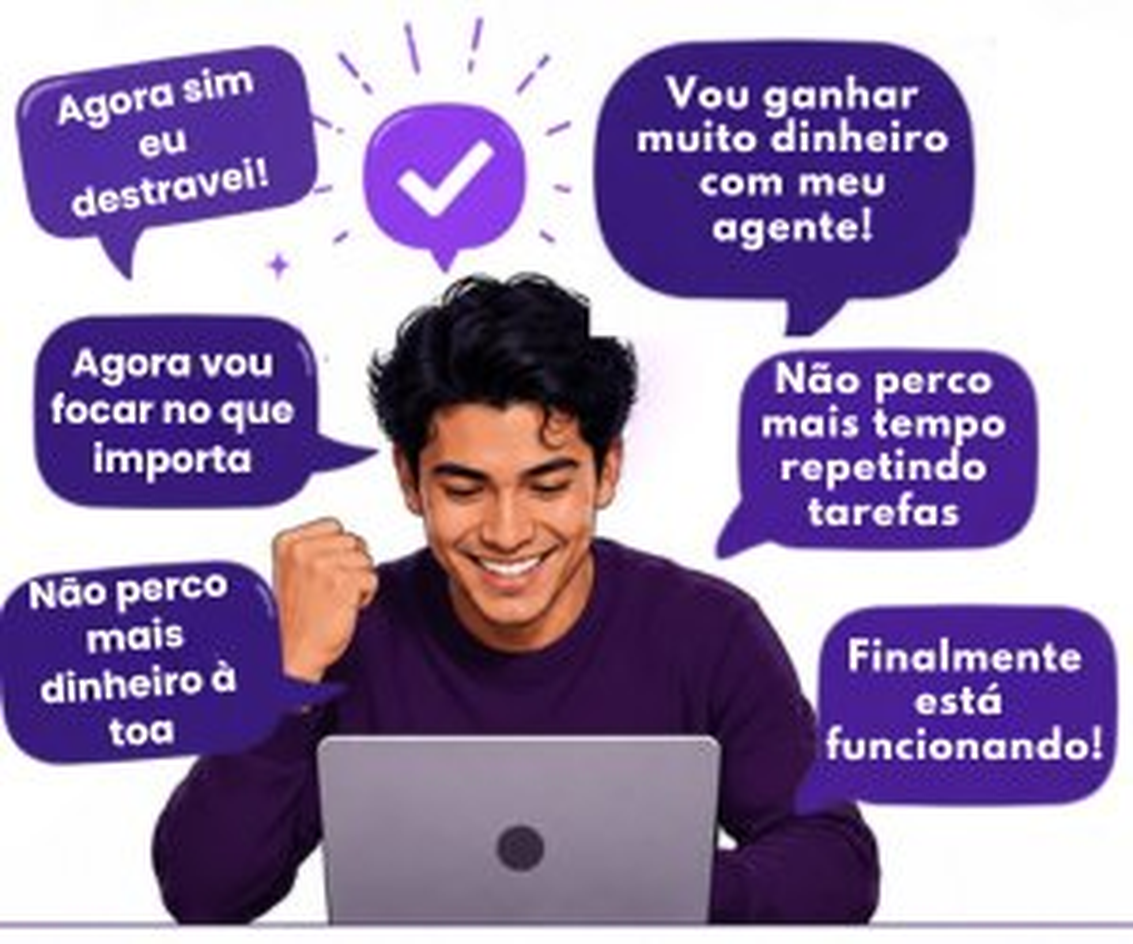
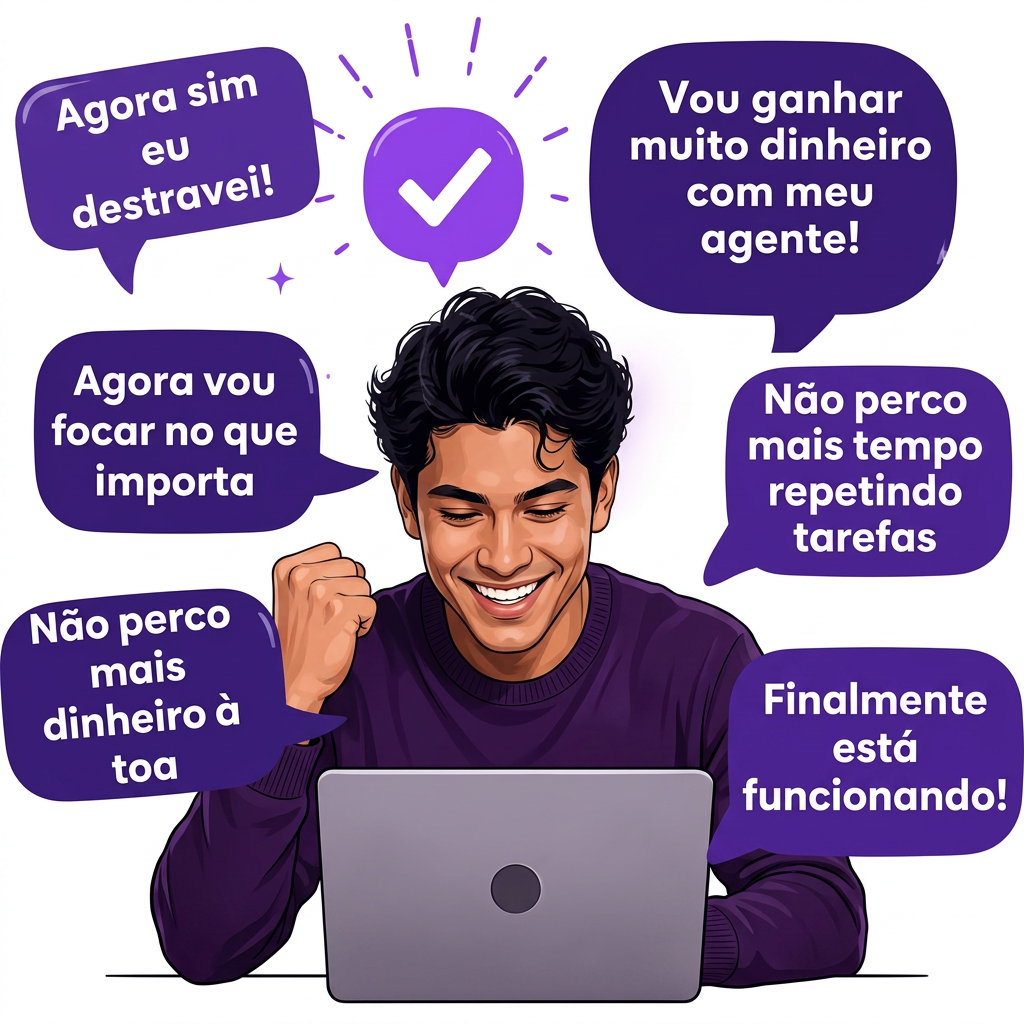
Changes

diff --git a/src/components/sales/Solution.tsx b/src/components/sales/Solution.tsx
@@ -27,7 +27,7 @@ export function Solution() {
             <img
               src={meninoFeliz}
               alt="Pessoa feliz com seu agente de IA funcionando"
-              className="w-full max-w-sm rounded-2xl"
+              className="w-full max-w-2xl rounded-2xl"
             />
           </div>
 

diff --git a/.lovable/plan.md b/.lovable/plan.md
@@ -1,23 +1,35 @@
 ## Objetivo
 
-Deixar as letras presentes em `src/assets/menino-feliz.png` legíveis e em alta resolução, sem alterar as figuras (personagem, cenário, cores, composição).
+1. Melhorar a nitidez das letras dentro de `src/assets/menino-feliz.png` sem alterar nenhum elemento da imagem (personagem, balões, cores, composição).
+2. Aumentar o tamanho exibido da imagem no componente `Solution.tsx` para ficar visualmente parecido com o tamanho da imagem de referência enviada (imagem maior, ocupando mais largura na seção).
 
-## Abordagem
+## Passos
 
-Usar `imagegen--edit_image` com a imagem atual como referência e um prompt focado apenas em refinar o texto:
+### 1. Re-renderizar a imagem com letras nítidas
+- Usar `imagegen--edit_image` em `src/assets/menino-feliz.png` com prompt focado apenas em:
+  - Manter exatamente a mesma cena, personagem, balões, cores e layout.
+  - Re-renderizar APENAS o texto dos balões com tipografia nítida, bordas limpas e alta resolução.
+  - Preservar o conteúdo textual exato de cada balão:
+    - "Mais um vídeo sem entender nada..."
+    - "Tanta informação que eu me perco"
+    - "Não sei por onde começar"
+    - "Minha cabeça bugou de novo"
+    - "Todo mundo consegue, menos eu"
+    - "Toda hora eu travo e não consigo terminar"
+- Aspect ratio: manter o atual (a imagem é praticamente quadrada → `1:1`).
+- Salvar sobrescrevendo `src/assets/menino-feliz.png`.
 
-- Manter exatamente a mesma cena, personagem, cores, layout e enquadramento.
-- Apenas re-renderizar o texto existente com bordas nítidas, alta resolução, tipografia limpa e legível.
-- Preservar o mesmo conteúdo textual, posição e estilo (fonte/cor) das letras originais.
-- Salvar o resultado em `src/assets/menino-feliz.png` (substituindo a versão atual).
+### 2. Validar
+- Abrir a imagem gerada e conferir:
+  - Figuras idênticas às originais.
+  - Texto dos balões legível e nítido.
+- Se algum texto sair diferente, regerar travando o conteúdo no prompt.
 
-## Validação
+### 3. Aumentar o tamanho exibido em `Solution.tsx`
+- Hoje a imagem usa `max-w-sm` (~384px).
+- Trocar para `max-w-xl` ou `max-w-2xl` para que ela ocupe largura próxima à da imagem de referência (mantendo `w-full` e `rounded-2xl`).
+- Nenhuma outra alteração de layout, copy ou estilo da seção.
 
-- Após gerar, abrir a imagem e conferir se:
-  1. As figuras permanecem idênticas.
-  2. As letras estão nítidas e legíveis.
-- Se o texto sair diferente do original, regenerar ajustando o prompt para travar o conteúdo textual exato.
-
-## Observação
-
-Caso o usuário queira preservar 100% o arquivo original e apenas sobrepor texto novo via HTML em cima da imagem (alternativa sem IA), me avise — é mais previsível para legibilidade, mas muda a forma como o texto aparece no componente `Solution.tsx`.
+## Fora de escopo
+- Não mudar texto, cores ou layout da seção.
+- Não tocar em outras imagens ou componentes.
